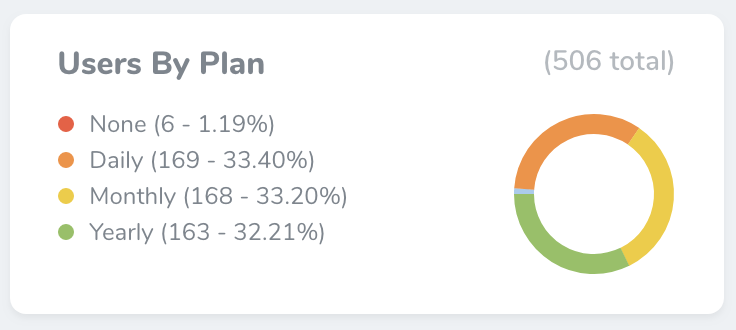
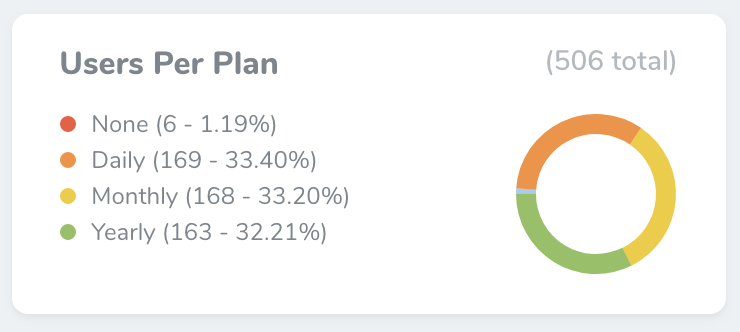
wip

diff --git a/1.0/metrics/defining-metrics.md b/1.0/metrics/defining-metrics.md
@@ -299,4 +299,49 @@ Partition metrics displays a pie chart of values. For example, a partition metri
 
 ![Partition Metric](./img/partition.png)
 
+Partition metrics may be generated using the `nova:partition` Artisan command. By default, all new metrics will be placed in the `app/Nova/Metrics` directory:
+
+```sh
+php artisan nova:value UsersPerPlan
+```
+
+Once your partition metric class has been generated, you're ready to customize it. Each partition metric class contains a `calculate` method. This method should return a `Laravel\Nova\Metrics\PartitionResult` object. Don't worry, Nova ships with a variety of helpers for quickly generating results.
+
+In this example, we are using the `count` helper, which will automatically perform a `count` query against the specified Eloquent model and retrieve the number of models belonging to each value of your specified "group by" column:
+
+```php
+<?php
+
+namespace App\Nova\Metrics;
+
+use App\User;
+use Illuminate\Http\Request;
+use Laravel\Nova\Metrics\Partition;
+
+class UsersPerPlan extends Partition
+{
+    /**
+     * Calculate the value of the metric.
+     *
+     * @param  \Illuminate\Http\Request  $request
+     * @return mixed
+     */
+    public function calculate(Request $request)
+    {
+        return $this->count($request, User::class, 'stripe_plan');
+    }
+
+    /**
+     * Get the URI key for the metric.
+     *
+     * @return string
+     */
+    public function uriKey()
+    {
+        return 'users-by-plan';
+    }
+}
+
+```
+
 ## Caching
